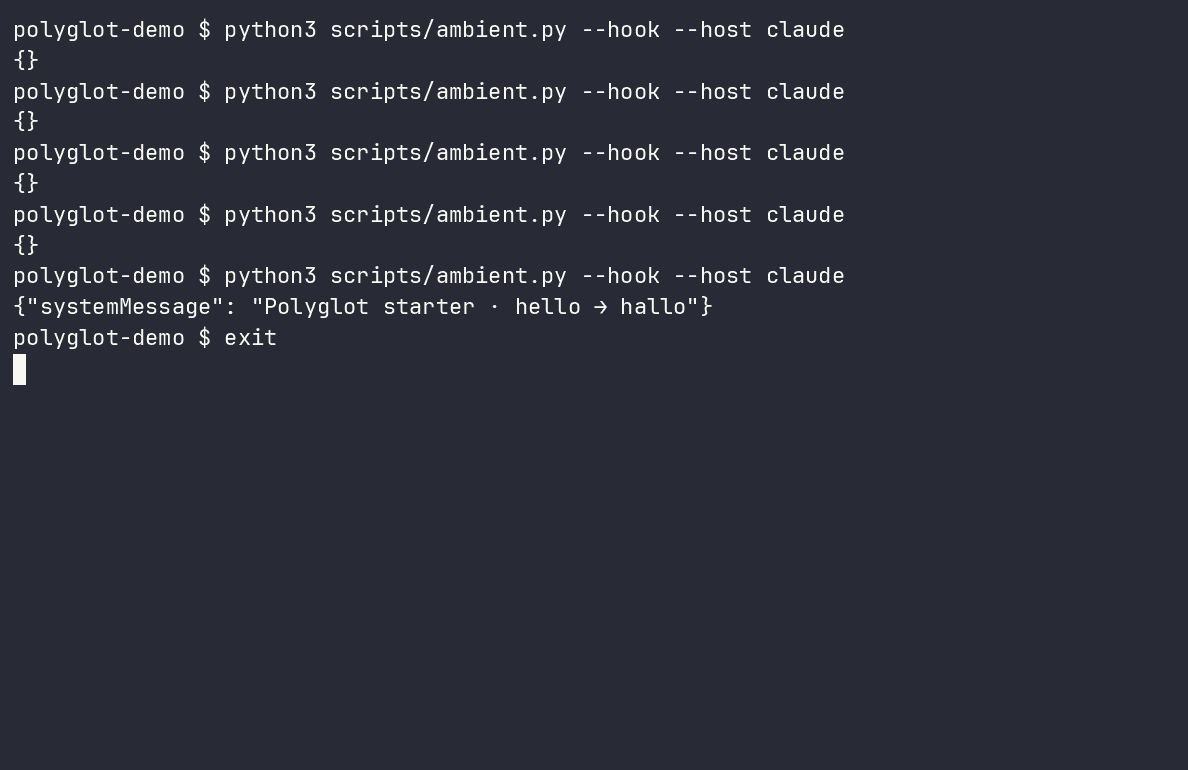
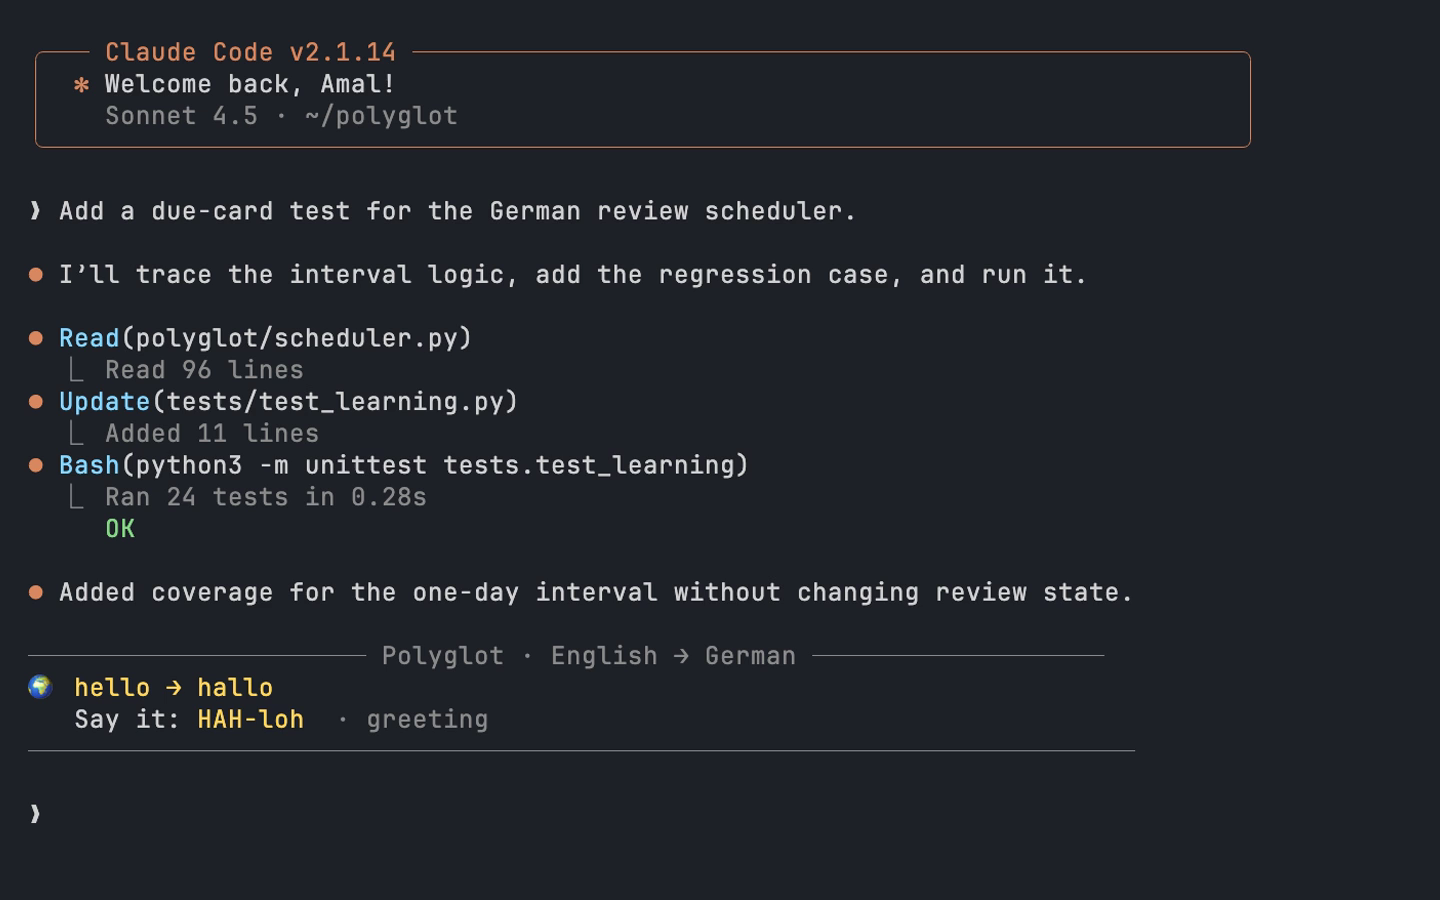
Show terminal demo at top of README (#2)

diff --git a/site/pagecast/index.html b/site/pagecast/index.html
@@ -5,18 +5,18 @@
     <meta name="viewport" content="width=device-width, initial-scale=1">
     <meta name="theme-color" content="#f3eedc">
     <meta name="description" content="Polyglot turns the pauses between Codex and Claude Code turns into small, private language-learning moments.">
-    <link rel="canonical" href="https://pagecast-6cv.pages.dev/p/gentle-bumbling-panther-7373321451de0e735781830f87c14813/">
+    <link rel="canonical" href="https://polyglot-5os.pages.dev/">
     <meta property="og:type" content="website">
     <meta property="og:site_name" content="Polyglot">
     <meta property="og:title" content="Polyglot — Learn a language while your coding agent works">
     <meta property="og:description" content="One useful word or phrase every few completed Codex or Claude Code turns.">
-    <meta property="og:url" content="https://pagecast-6cv.pages.dev/p/gentle-bumbling-panther-7373321451de0e735781830f87c14813/">
-    <meta property="og:image" content="https://pagecast-6cv.pages.dev/p/gentle-bumbling-panther-7373321451de0e735781830f87c14813/assets/polyglot-poster.png">
+    <meta property="og:url" content="https://polyglot-5os.pages.dev/">
+    <meta property="og:image" content="https://polyglot-5os.pages.dev/assets/polyglot-poster.png">
     <meta property="og:image:alt" content="Polyglot typed-recall and spaced-repetition learning in the terminal">
     <meta name="twitter:card" content="summary_large_image">
     <meta name="twitter:title" content="Polyglot — Make the waiting teach you something">
     <meta name="twitter:description" content="Private, token-efficient language learning inside Codex and Claude Code sessions.">
-    <meta name="twitter:image" content="https://pagecast-6cv.pages.dev/p/gentle-bumbling-panther-7373321451de0e735781830f87c14813/assets/polyglot-poster.png">
+    <meta name="twitter:image" content="https://polyglot-5os.pages.dev/assets/polyglot-poster.png">
     <title>Polyglot — Learn a language between Codex and Claude Code turns</title>
     <link rel="icon" href="./assets/favicon.svg" type="image/svg+xml">
     <style>
@@ -79,7 +79,7 @@
       .directions { margin-top:1px; padding:26px; color:var(--ink); background:var(--cream); } .directions p { margin:0; font:14px/1.6 var(--sans); } .directions code { font-family:var(--mono); }
       .hosts { display:grid; grid-template-columns:repeat(4,1fr); border:1px solid var(--blue); background:var(--cream); }
       .hosts article { min-height:195px; padding:24px; border-right:1px solid var(--rule); } .hosts article:last-child { border:0; } .hosts h3 { margin:40px 0 13px; color:var(--blue); font:34px/1 var(--serif); } .hosts p { margin:0; font-size:14px; line-height:1.52; }
-      .video-slot { margin-top:52px; border:1px solid var(--blue); background:var(--cream); box-shadow:11px 11px 0 var(--blue); } .video-slot video { display:block; width:100%; background:#10133b; } .video-slot p { margin:0; padding:12px 16px; font:10px var(--mono); letter-spacing:.08em; text-transform:uppercase; }
+      .video-slot { margin-top:52px; border:1px solid var(--blue); background:var(--cream); box-shadow:11px 11px 0 var(--blue); } .video-slot video { display:block; max-height:78vh; object-fit:contain; width:100%; background:#10133b; } .video-slot p { margin:0; padding:12px 16px; font:10px var(--mono); letter-spacing:.08em; text-transform:uppercase; }
       .transcript { margin-top:54px; border-top:1px solid var(--blue); border-bottom:1px solid var(--blue); } .transcript summary { cursor:pointer; display:flex; align-items:center; min-height:44px; padding:20px 0; color:var(--blue); font:11px var(--mono); letter-spacing:.1em; text-transform:uppercase; } .transcript div { max-width:760px; padding:0 0 24px; font-size:16px; line-height:1.6; }
       .final { padding-block:clamp(80px,12vw,160px); } .final h2 { max-width:940px; margin-top:22px; font-size:clamp(55px,7.4vw,112px); } footer { display:flex; justify-content:space-between; gap:18px; padding-block:26px; color:var(--cream); background:var(--blue); font:9px var(--mono); letter-spacing:.1em; text-transform:uppercase; }
       @media (max-width:900px) { .hero,.heading { grid-template-columns:1fr; } .hero-note { max-width:460px; } .hosts { grid-template-columns:repeat(2,1fr); } .hosts article:nth-child(2) { border-right:0; } .hosts article:nth-child(-n+2) { border-bottom:1px solid var(--rule); } }
@@ -99,12 +99,12 @@
           <p class="eyebrow">Polyglot for Codex + Claude Code</p>
           <h1>Learn a language in the <em>pauses</em> between agent turns.</h1>
           <p class="lede">Instead of staring at terminal churn, collect one useful word or phrase every few completed turns. No extra tab. No streak pressure. Just something small that adds up.</p>
-          <div class="actions"><a class="button primary" href="https://github.com/Amal-David/polyglot">Add Polyglot to your agent ↗</a><a class="button" href="#ambient">Watch five real turns</a></div>
+          <div class="actions"><a class="button primary" href="https://github.com/Amal-David/polyglot">Add Polyglot to your agent ↗</a><a class="button" href="#ambient">Watch the terminal demo</a></div>
         </div>
         <aside class="hero-note" aria-label="Ambient learning example"><p class="kicker">Turn 5 / EN → DE</p><strong>hello → hallo</strong><p>one small thing that compounds<br>ungraded &nbsp; / &nbsp; local &nbsp; / &nbsp; quiet</p></aside>
       </section>
       <section class="stats" aria-label="Ambient learning summary"><div><strong>5</strong><span>completed turns</span></div><div><strong>1</strong><span>useful phrase</span></div><div><strong>74</strong><span>language directions</span></div><div><strong>0</strong><span>model calls</span></div></section>
-      <section class="section shell" id="ambient"><div class="heading"><p class="eyebrow">Real CLI capture</p><h2>Five completed turns. One phrase worth keeping.</h2><p>The shipped Stop hook stays quiet for four turns, then returns one small language-learning moment through the same path packaged for Codex and Claude Code.</p></div><div class="video-slot"><div class="terminal-bar"><span>Polyglot / Codex + Claude Code compatible Stop hook</span><span>Real terminal capture</span></div><video controls playsinline preload="metadata" poster="./assets/polyglot-poster.png"><source src="./assets/polyglot-demo.mp4" type="video/mp4">Your browser does not support the demo video.</video></div><details class="transcript"><summary>Read the demo transcript and summary</summary><div><p>A real isolated CLI capture invokes five completed-turn Stop events. The first four return no visible message. On the fifth, Polyglot emits <code>Polyglot starter · hello → hallo</code>. The video intentionally shows only the CLI behavior, while the packaged hook is shared by Codex and Claude Code.</p></div></details></section>
+      <section class="section shell" id="ambient"><div class="heading"><p class="eyebrow">Claude Code terminal</p><h2>The work finishes. Polyglot teaches one useful phrase.</h2><p>No hook commands or payloads—just the experience inside a coding session.</p></div><div class="video-slot"><div class="terminal-bar"><span>Polyglot · Claude Code</span><span>English → German at the turn boundary</span></div><video controls autoplay muted loop playsinline preload="metadata" poster="./assets/polyglot-poster.png"><source src="./assets/polyglot-demo.mp4" type="video/mp4">Your browser does not support the Polyglot terminal demo.</video></div><details class="transcript"><summary>Accessible transcript</summary><div><p>Claude Code adds a regression test for the German review scheduler and runs 24 focused tests successfully. At the turn boundary, Polyglot displays <code>hello → hallo</code> with the pronunciation <code>HAH-loh</code>.</p></div></details></section>
       <section class="section shell" id="review">
         <div class="heading"><p class="eyebrow">When you want deliberate practice</p><h2>Recall it. Grade it. See it again when it matters.</h2><p>The terminal review flow is optional and secondary: it turns ambient exposure into locally scheduled learning.</p></div>
         <div class="terminal" aria-label="Polyglot German typed recall terminal sequence"><div class="terminal-bar"><span>polyglot / review</span><span>en-de · reverse</span></div><pre><span class="prompt">$ polyglot review --pair en-de --direction reverse</span>
@@ -121,5 +121,5 @@ Answer: to see
       <section class="shell final"><p class="eyebrow">Make the waiting useful</p><h2>Let every few turns teach you one thing.</h2><div class="actions"><a class="button primary" href="https://github.com/Amal-David/polyglot">Add Polyglot to your agent ↗</a></div></section>
     </main>
     <footer class="shell"><span>Polyglot · educational content</span><span>Ambient learning · terminal tools included</span></footer>
-  </body>
+</body>
 </html>

diff --git a/site/app/page.tsx b/site/app/page.tsx
@@ -38,7 +38,7 @@ export default function Home() {
             </p>
             <div className="hero-actions">
               <a className="button button-primary" href={githubUrl}>Add Polyglot to your agent ↗</a>
-              <a className="button button-secondary" href="#ambient">Watch five real turns</a>
+              <a className="button button-secondary" href="#ambient">Watch the terminal demo</a>
             </div>
           </div>
           <aside className="phrase-card" aria-label="Ambient learning example">
@@ -58,18 +58,18 @@ export default function Home() {
 
         <section className="demo-section" id="ambient">
           <div className="section-heading">
-            <p className="eyebrow">Real CLI capture</p>
-            <h2>Five completed turns. One phrase worth keeping.</h2>
-            <p>The shipped Stop hook stays quiet for four turns, then returns one small language-learning moment through the same path packaged for Codex and Claude Code.</p>
+            <p className="eyebrow">Claude Code terminal</p>
+            <h2>The work finishes. Polyglot teaches one useful phrase.</h2>
+            <p>No hook commands or payloads—just the experience inside a coding session.</p>
           </div>
           <div className="video-frame">
-            <div className="video-bar"><span>Polyglot / Codex + Claude Code compatible Stop hook</span><span>Real terminal capture</span></div>
-            <video controls playsInline preload="metadata" poster="/polyglot-poster.png">
+            <div className="video-bar"><span>Polyglot · Claude Code</span><span>English → German at the turn boundary</span></div>
+            <video controls autoPlay muted loop playsInline preload="metadata" poster="/polyglot-poster.png">
               <source src="/polyglot-demo.mp4" type="video/mp4" />
               Your browser does not support the demo video.
             </video>
           </div>
-          <details className="transcript"><summary>Read the demo transcript and summary</summary><p>A real isolated CLI capture invokes five completed-turn Stop events. The first four return no visible message. On the fifth, Polyglot emits <code>Polyglot starter · hello → hallo</code>. The video intentionally shows only the CLI behavior, while the packaged hook is shared by Codex and Claude Code.</p></details>
+          <details className="transcript"><summary>Accessible transcript</summary><p>Claude Code adds a regression test for the German review scheduler and runs 24 focused tests successfully. At the turn boundary, Polyglot displays <code>hello → hallo</code> with the pronunciation <code>HAH-loh</code>.</p></details>
         </section>
 
         <section className="demo-section" id="review">

diff --git a/site/app/globals.css b/site/app/globals.css
@@ -451,6 +451,8 @@ video {
   background: var(--paper);
   display: block;
   height: auto;
+  max-height: 78vh;
+  object-fit: contain;
   width: 100%;
 }
 

diff --git a/tests/test_pagecast_static.py b/tests/test_pagecast_static.py
@@ -26,7 +26,7 @@ class PagecastStaticBundleTests(unittest.TestCase):
         for marker in (
             'href="#main"',
             'id="main" tabindex="-1"',
-            "Read the demo transcript and summary",
+            "Accessible transcript",
             "polyglot review --pair en-de --direction reverse",
             "Prompt: sehen",
             "Answer: to see",
@@ -98,10 +98,7 @@ class PagecastStaticBundleTests(unittest.TestCase):
             self.assertNotIn(marker.lower(), self.html.lower())
 
     def test_pagecast_has_final_canonical_and_social_metadata(self) -> None:
-        page_url = (
-            "https://pagecast-6cv.pages.dev/p/"
-            "gentle-bumbling-panther-7373321451de0e735781830f87c14813/"
-        )
+        page_url = "https://polyglot-5os.pages.dev/"
         self.assertIn(f'<link rel="canonical" href="{page_url}">', self.html)
         self.assertIn(f'<meta property="og:url" content="{page_url}">', self.html)
         self.assertIn('<meta property="og:type" content="website">', self.html)

diff --git a/README.md b/README.md
@@ -2,6 +2,8 @@
 
 **Learn a language in the pauses between agent turns.**
 
+[![Polyglot teaching German inside a Claude Code terminal session](assets/demo/polyglot-claude-demo.gif)](https://polyglot-5os.pages.dev/#ambient)
+
 Polyglot puts one useful word or phrase inside your Codex or Claude Code
 session every few completed turns. Instead of staring at terminal churn while
 an agent works, you collect small language-learning moments that add up—without
@@ -11,7 +13,7 @@ The 74 language directions, 19,281 bundled entries, interactive terminal
 cabinet, typed recall, and local spaced repetition support that ambient moment.
 They are available when you want deliberate study, but they are secondary.
 
-[Visit the Polyglot landing page](https://pagecast-6cv.pages.dev/p/gentle-bumbling-panther-7373321451de0e735781830f87c14813/).
+[Visit the Polyglot landing page](https://polyglot-5os.pages.dev/).
 
 ![Polyglot ambient phrase](assets/screenshots/polyglot_ambient_hook.png)
 
@@ -32,11 +34,11 @@ treated as learner evidence.
 
 ## Demo video
 
-[Watch the real five-turn CLI Stop-hook demo on the live landing page](https://pagecast-6cv.pages.dev/p/gentle-bumbling-panther-7373321451de0e735781830f87c14813/#ambient).
+[Watch the full-resolution terminal demo](https://polyglot-5os.pages.dev/#ambient).
 
-The recording invokes the same packaged hook path used by Codex and Claude
-Code. It intentionally shows only the CLI behavior: four quiet stops, then one
-compact starter phrase on the fifth.
+The recording shows a Claude Code edit-and-test session. Polyglot adds one
+German phrase after the completed turn. It never exposes adapter commands or
+raw hook payloads.
 
 The landing-page source lives in [`site/`](site/), including a dependency-free
 Pagecast-safe handoff in `site/pagecast/`. It documents the verified adapter

diff --git a/site/README.md b/site/README.md
@@ -24,4 +24,4 @@ bundle is self-contained under `pagecast/`, including local fonts, licenses,
 favicon, the final video, the poster, and a hash-and-size manifest.
 
 Published Pagecast URL:
-<https://pagecast-6cv.pages.dev/p/gentle-bumbling-panther-7373321451de0e735781830f87c14813/>
+<https://polyglot-5os.pages.dev/>